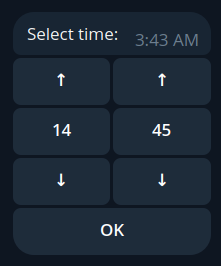
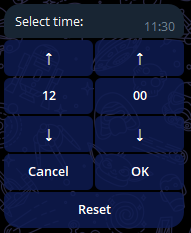
removed 12 format; added range date; added reset button;

Changed region(s): [[0.0, 0.0, 1.0, 1.0]]

diff --git a/inline_timepicker/inline_timepicker.py b/inline_timepicker/inline_timepicker.py
@@ -2,11 +2,11 @@ import abc
 import datetime
 from dataclasses import dataclass
 from typing import Optional
-from babel import Locale
-from babel.dates import get_time_format
 from aiogram.filters.callback_data import CallbackData
 from aiogram.types import InlineKeyboardMarkup
 from aiogram.utils.keyboard import InlineKeyboardBuilder
+
+from inline_timepicker.time_utils import incH, incM
 
 
 @dataclass
@@ -21,8 +21,17 @@ class Localization(abc.ABC):
     def Cancel(self):
         pass
 
+    @property
+    @abc.abstractmethod
+    def Reset(self):
+        pass
+
 
 class EnglishLocalization(Localization):
+    @property
+    def Reset(self):
+        return "Reset"
+
     @property
     def OK(self):
         return "OK"
@@ -35,13 +44,17 @@ class EnglishLocalization(Localization):
 @dataclass
 class InlineTimepickerData:
     current_time: datetime.time
+    base_time: datetime.time
+    prev_time: datetime.time | None
+    min_time: datetime.time
+    max_time: datetime.time
     minute_step: int
     hour_step: int
     localization: Localization
 
 
 class TimepickerCallback(CallbackData, prefix="inline_timepicker"):
-    action: str  # 'inc', 'dec', 'toggle', 'success', 'cancel', 'wrong_choice'
+    action: str  # 'inc', 'dec', 'toggle', 'success', 'cancel', 'reset' 'wrong_choice'
     data: str  # 'hour', 'minute', 'period', '-'
 
 
@@ -55,17 +68,29 @@ class InlineTimepicker:
     def _set_user_info(self, chat_id: int, data: Optional[InlineTimepickerData]):
         self.data[chat_id] = data
 
-    def init(self, chat_id: int, base_time: datetime.time = datetime.time(12, 0),
-             minute_step: int = 15, hour_step: int = 1, localization: Optional[Localization] = None):
+    def init(
+            self,
+            chat_id: int,
+            base_time: datetime.time = datetime.time(12, 0),
+            minimum_time: datetime.time = datetime.time(0, 0),
+            maximum_time: datetime.time = datetime.time(23, 59),
+            minute_step: int = 15,
+            hour_step: int = 1,
+            localization: Optional[Localization] = None,
+    ):
         if localization is None:
             localization = EnglishLocalization()
         self._set_user_info(
             chat_id,
             InlineTimepickerData(
+                base_time=base_time,
                 current_time=base_time,
                 minute_step=minute_step,
                 hour_step=hour_step,
-                localization=localization
+                localization=localization,
+                min_time=minimum_time,
+                max_time=maximum_time,
+                prev_time=None,
             )
         )
 
@@ -75,57 +100,26 @@ class InlineTimepicker:
     def reset(self, chat_id: int):
         self._set_user_info(chat_id, None)
 
-    def uses_12h_format(self, locale: str) -> bool:
-        """Check if locale typically uses 12-hour format"""
-        try:
-            loc = Locale.parse(locale)
-            return 'h' in str(get_time_format(locale=loc))
-        except:
-            return False
-
-    def format_time_output(self, time: datetime.time, locale: str) -> str:
-        """Format time for display with AM/PM when needed"""
-        if self.uses_12h_format(locale):
-            hour = time.hour % 12 or 12
-            period = "AM" if time.hour < 12 else "PM"
-            return f"{hour:02d}:{time.minute:02d} {period}"
-        return f"{time.hour:02d}:{time.minute:02d}"
-
-    def get_keyboard(self, chat_id: int, locale: str = "en_US") -> InlineKeyboardMarkup:
+    def get_keyboard(self, chat_id: int) -> InlineKeyboardMarkup:
         if not self.is_inited(chat_id):
             raise ValueError('Timepicker not initialized')
 
         builder = InlineKeyboardBuilder()
         user_info = self._get_user_info(chat_id)
         current_time = user_info.current_time
-        use_12h = self.uses_12h_format(locale)
 
         # Increment buttons row
         builder.button(text="↑", callback_data=TimepickerCallback(action="inc", data="hour"))
         builder.button(text="↑", callback_data=TimepickerCallback(action="inc", data="minute"))
-        if use_12h:
-            builder.button(text="↑", callback_data=TimepickerCallback(action="inc", data="period"))
 
-        # Display values row
-        if use_12h:
-            display_hour = current_time.hour % 12 or 12
-            period = "AM" if current_time.hour < 12 else "PM"
-            builder.button(text=f"{display_hour:02d}",
-                           callback_data=TimepickerCallback(action="wrong_choice", data="-"))
-            builder.button(text=f"{current_time.minute:02d}",
-                           callback_data=TimepickerCallback(action="wrong_choice", data="-"))
-            builder.button(text=period, callback_data=TimepickerCallback(action="toggle", data="period"))
-        else:
-            builder.button(text=f"{current_time.hour:02d}",
-                           callback_data=TimepickerCallback(action="wrong_choice", data="-"))
-            builder.button(text=f"{current_time.minute:02d}",
-                           callback_data=TimepickerCallback(action="wrong_choice", data="-"))
+        builder.button(text=f"{current_time.hour:02d}",
+                       callback_data=TimepickerCallback(action="wrong_choice", data="-"))
+        builder.button(text=f"{current_time.minute:02d}",
+                       callback_data=TimepickerCallback(action="wrong_choice", data="-"))
 
         # Decrement buttons row
         builder.button(text="↓", callback_data=TimepickerCallback(action="dec", data="hour"))
         builder.button(text="↓", callback_data=TimepickerCallback(action="dec", data="minute"))
-        if use_12h:
-            builder.button(text="↓", callback_data=TimepickerCallback(action="dec", data="period"))
 
         # Cancel button row
         builder.button(text=user_info.localization.Cancel, callback_data=TimepickerCallback(action="cancel", data="-"))
@@ -133,57 +127,42 @@ class InlineTimepicker:
         # OK button row
         builder.button(text=user_info.localization.OK, callback_data=TimepickerCallback(action="success", data="-"))
 
+        # Reset button row
+        builder.button(text=user_info.localization.Reset, callback_data=TimepickerCallback(action="reset", data="-"))
+
         # Adjust layout
-        if use_12h:
-            builder.adjust(3, 3, 3, 2)  # 3 columns for 12h format
-        else:
-            builder.adjust(2, 2, 2, 2)  # 2 columns for 24h format
+        builder.adjust(2, 2, 2, 2, 1)  # 2 columns
 
         return builder.as_markup()
 
-    def handle(self, chat_id: int, callback_data: TimepickerCallback) -> tuple[bool, Optional[datetime.time]]:
+    def handle(self, chat_id: int, callback_data: TimepickerCallback) -> tuple[bool, Optional[datetime.time], Optional[datetime.time]]:
         if not self.is_inited(chat_id):
             raise ValueError("Timepicker not initialized")
 
         user_info = self._get_user_info(chat_id)
+        prev_time = user_info.prev_time
         current_time = user_info.current_time
-        new_hour = current_time.hour
-        new_minute = current_time.minute
 
         if callback_data.action == 'success':
             self.reset(chat_id)
-            return False, current_time
-
-        if callback_data.action == 'cancel':
+            return False, prev_time, current_time
+        elif callback_data.action == 'cancel':
             self.reset(chat_id)
-            return False, None
-
-        if callback_data.action == 'inc':
+            return False, None, None
+        elif callback_data.action == 'reset':
+            user_info.prev_time = current_time
+            user_info.current_time = user_info.base_time
+            self._set_user_info(chat_id, user_info)
+            return True, user_info.prev_time, user_info.current_time
+        else:
+            k = -1 if callback_data.action == 'dec' else 1
             if callback_data.data == 'hour':
-                new_hour = (new_hour + user_info.hour_step) % 24
-            elif callback_data.data == 'minute':
-                new_minute += user_info.minute_step
-                if new_minute >= 60:
-                    new_minute -= 60
-                    new_hour = (new_hour + 1) % 24
-            elif callback_data.data == 'period':
-                new_hour = (new_hour + 12) % 24
+                new_time = incH(current_time, k*user_info.hour_step, user_info.max_time, user_info.min_time)
+            else:
+                # elif callback_data.data == 'minute':
+                new_time = incM(current_time, k*user_info.minute_step, user_info.max_time, user_info.min_time)
 
-        elif callback_data.action == 'dec':
-            if callback_data.data == 'hour':
-                new_hour = (new_hour - user_info.hour_step) % 24
-            elif callback_data.data == 'minute':
-                new_minute -= user_info.minute_step
-                if new_minute < 0:
-                    new_minute += 60
-                    new_hour = (new_hour - 1) % 24
-            elif callback_data.data == 'period':
-                new_hour = (new_hour + 12) % 24
-
-        elif callback_data.action == 'toggle' and callback_data.data == 'period':
-            new_hour = (new_hour + 12) % 24
-
-        new_time = datetime.time(new_hour, new_minute)
-        user_info.current_time = new_time
-        self._set_user_info(chat_id, user_info)
-        return True, None
+            user_info.prev_time = current_time
+            user_info.current_time = new_time
+            self._set_user_info(chat_id, user_info)
+            return True, user_info.prev_time, user_info.current_time

diff --git a/example_bot.py b/example_bot.py
@@ -1,16 +1,32 @@
+import datetime
 import logging
 import sys
 import asyncio
 from aiogram import Bot, Dispatcher, types
 from aiogram.filters import Command
 from aiogram.types import CallbackQuery
-from inline_timepicker.inline_timepicker import InlineTimepicker, TimepickerCallback
+from inline_timepicker.inline_timepicker import InlineTimepicker, TimepickerCallback, Localization
 from aiogram.enums import ParseMode
 from aiogram.client.default import DefaultBotProperties
 
 # Initialize dispatcher
 dp = Dispatcher()
 inline_timepicker = InlineTimepicker()
+
+
+# You can write your localization
+class MyLanguageLocalization(Localization):
+    @property
+    def Reset(self):
+        return "Сбросить"
+
+    @property
+    def OK(self):
+        return "Принять"
+
+    @property
+    def Cancel(self):
+        return "Отмена"
 
 
 async def get_user_locale(user: types.User) -> str:
@@ -20,38 +36,45 @@ async def get_user_locale(user: types.User) -> str:
 
 @dp.message(Command('time'))
 async def show_timepicker(message: types.Message):
-    locale = await get_user_locale(message.from_user)
-    inline_timepicker.init(message.from_user.id)
+    inline_timepicker.init(
+        message.from_user.id,
+        maximum_time=datetime.time(18, 30),  # You can set the upper time edge
+        minimum_time=datetime.time(10, 0),   # You can set the lower time edge
+        localization=MyLanguageLocalization()  # and using you localization (optional, default is English)
+    )
     await message.answer(
         "Select time:",
-        reply_markup=inline_timepicker.get_keyboard(message.from_user.id, locale)
+        reply_markup=inline_timepicker.get_keyboard(message.from_user.id)
     )
 
 
 @dp.callback_query(TimepickerCallback.filter())
 async def handle_timepicker(query: CallbackQuery, callback_data: TimepickerCallback):
-    locale = await get_user_locale(query.from_user)
-    is_continue, handle_result = inline_timepicker.handle(query.from_user.id, callback_data)
-
-    if handle_result is not None:  # Time was selected
-        formatted_time = inline_timepicker.format_time_output(handle_result, locale)
-        await query.message.edit_text(
-            f"Selected time: {formatted_time}",
-            reply_markup=None
-        )
-    elif not is_continue:   # Cancel pressed
-        await query.message.edit_text("Time not selected", reply_markup=None)
-
-    # Time was adjusted
+    is_continue, prev_time, current_time = inline_timepicker.handle(query.from_user.id, callback_data)
     if is_continue:
-        await query.message.edit_reply_markup(
-            reply_markup=inline_timepicker.get_keyboard(query.from_user.id, locale)
-        )
+        if prev_time == current_time:
+            # The user has reached one edge
+            text = "maximum" if current_time == datetime.time(18, 30) else "minimum"
+            await query.answer(f"This is {text} time")
+        else:
+            await query.message.edit_reply_markup(
+                reply_markup=inline_timepicker.get_keyboard(query.from_user.id)
+            )
+    else:
+        if current_time is not None:  # Time was selected
+            formatted_time = current_time.strftime("%H:%M")
+            await query.message.edit_text(
+                f"Selected time: {formatted_time}",
+                reply_markup=None
+            )
+        else:
+            await query.message.edit_text("Time not selected", reply_markup=None)
 
 
 async def main() -> None:
     # Initialize Bot instance with a default parse mode which will be passed to all API calls
-    bot = Bot("7327799319:AAF3avmf9E8TZRdsn6jqqma0-7QxB8ugqeY", default=DefaultBotProperties(parse_mode=ParseMode.HTML))  # works from aiogram v.3.7.0
+    bot = Bot("7327799319:AAF3avmf9E8TZRdsn6jqqma0-7QxB8ugqeY",
+              default=DefaultBotProperties(parse_mode=ParseMode.HTML))  # works from aiogram v.3.7.0
 
     # And the run events dispatching
     await dp.start_polling(bot)

diff --git a/inline_timepicker/time_utils.py b/inline_timepicker/time_utils.py
@@ -1,0 +1,33 @@
+import datetime
+
+
+def incH(
+    time: datetime.time,
+    step_h: int,
+    max_time: datetime.time,
+    min_time: datetime.time
+) -> datetime.time:
+    return incDelta(time, datetime.timedelta(hours=step_h), max_time, min_time)
+
+
+def incM(
+    time: datetime.time,
+    step_m: int,
+    max_time: datetime.time,
+    min_time: datetime.time
+) -> datetime.time:
+    return incDelta(time, datetime.timedelta(minutes=step_m), max_time, min_time)
+
+
+def incDelta(
+    time: datetime.time,
+    timedelta: datetime.timedelta,
+    max_time: datetime.time,
+    min_time: datetime.time
+) -> datetime.time:
+    new_time = (datetime.datetime.combine(datetime.date.today(), time) + timedelta).time()
+    if new_time > max_time:
+        new_time = max_time
+    elif new_time < min_time:
+        new_time = min_time
+    return new_time

diff --git a/README.md b/README.md
@@ -2,12 +2,6 @@
 
 ### How it looks like?
 
-12-hour format:
-
-![12-hour format](pictures/12h.png)
-
-24-hour format:
-
 ![24-hour format](pictures/24h.png)
 
 ### How to use it?
